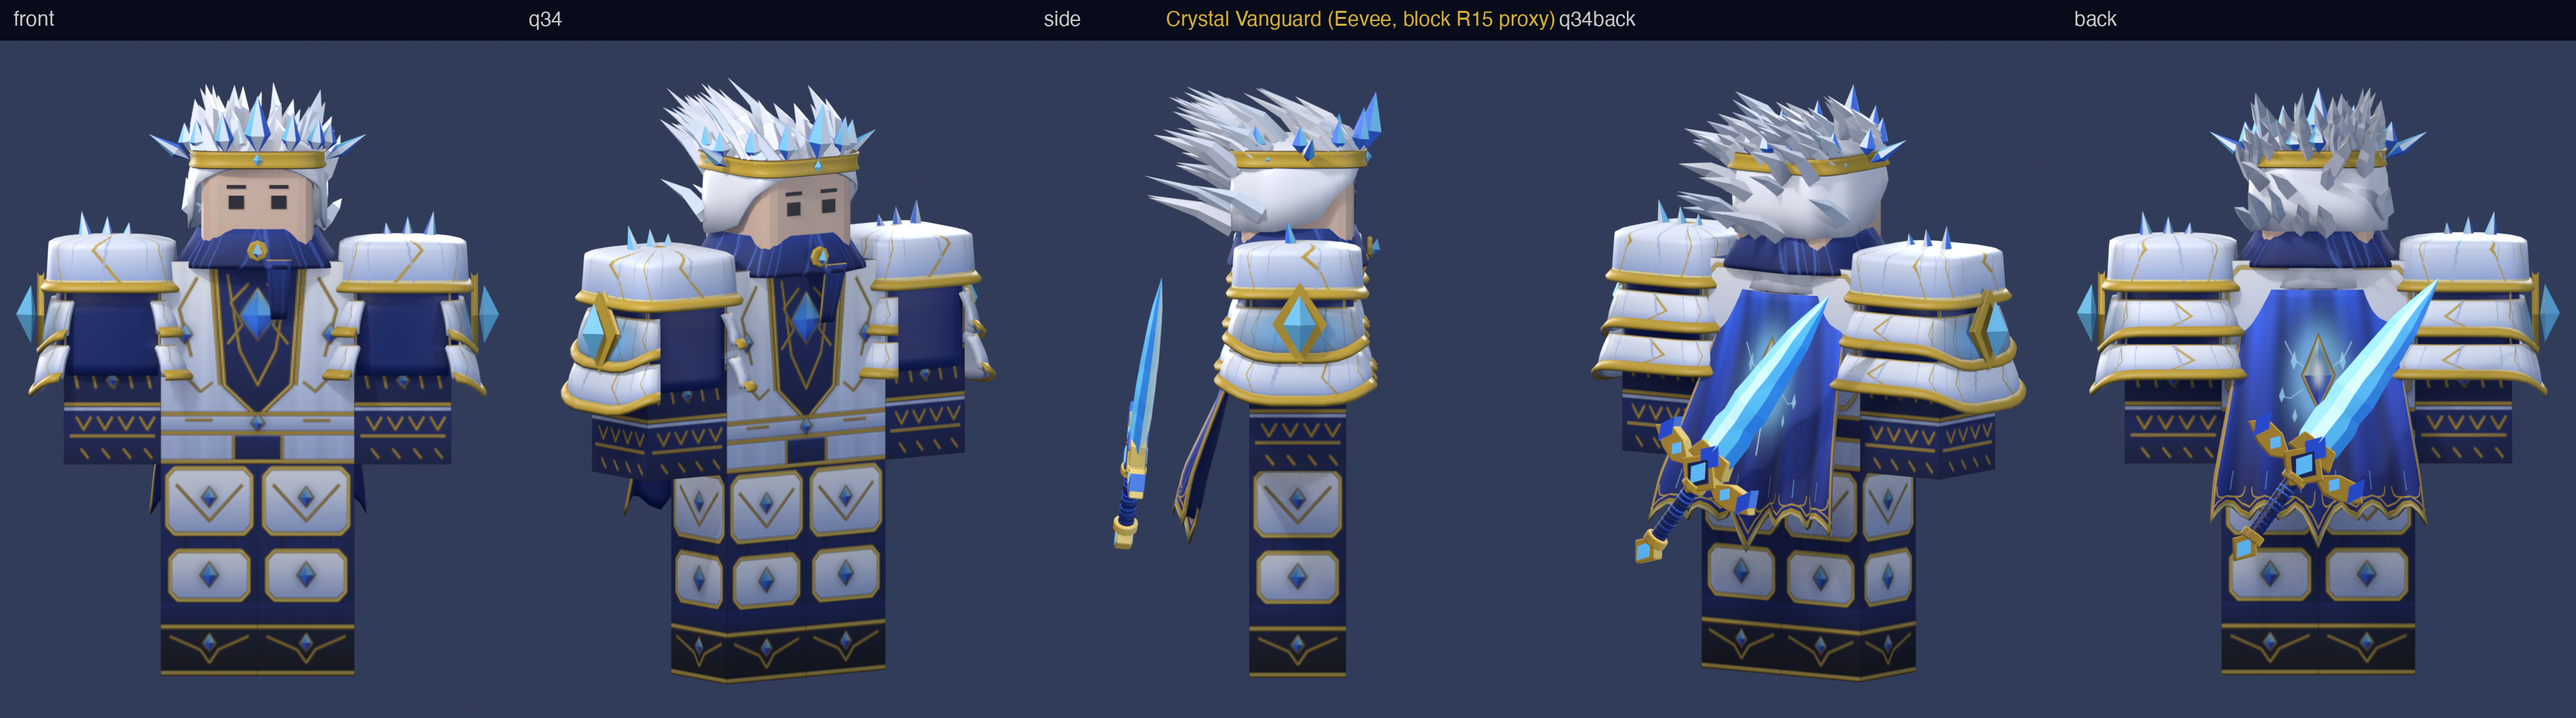
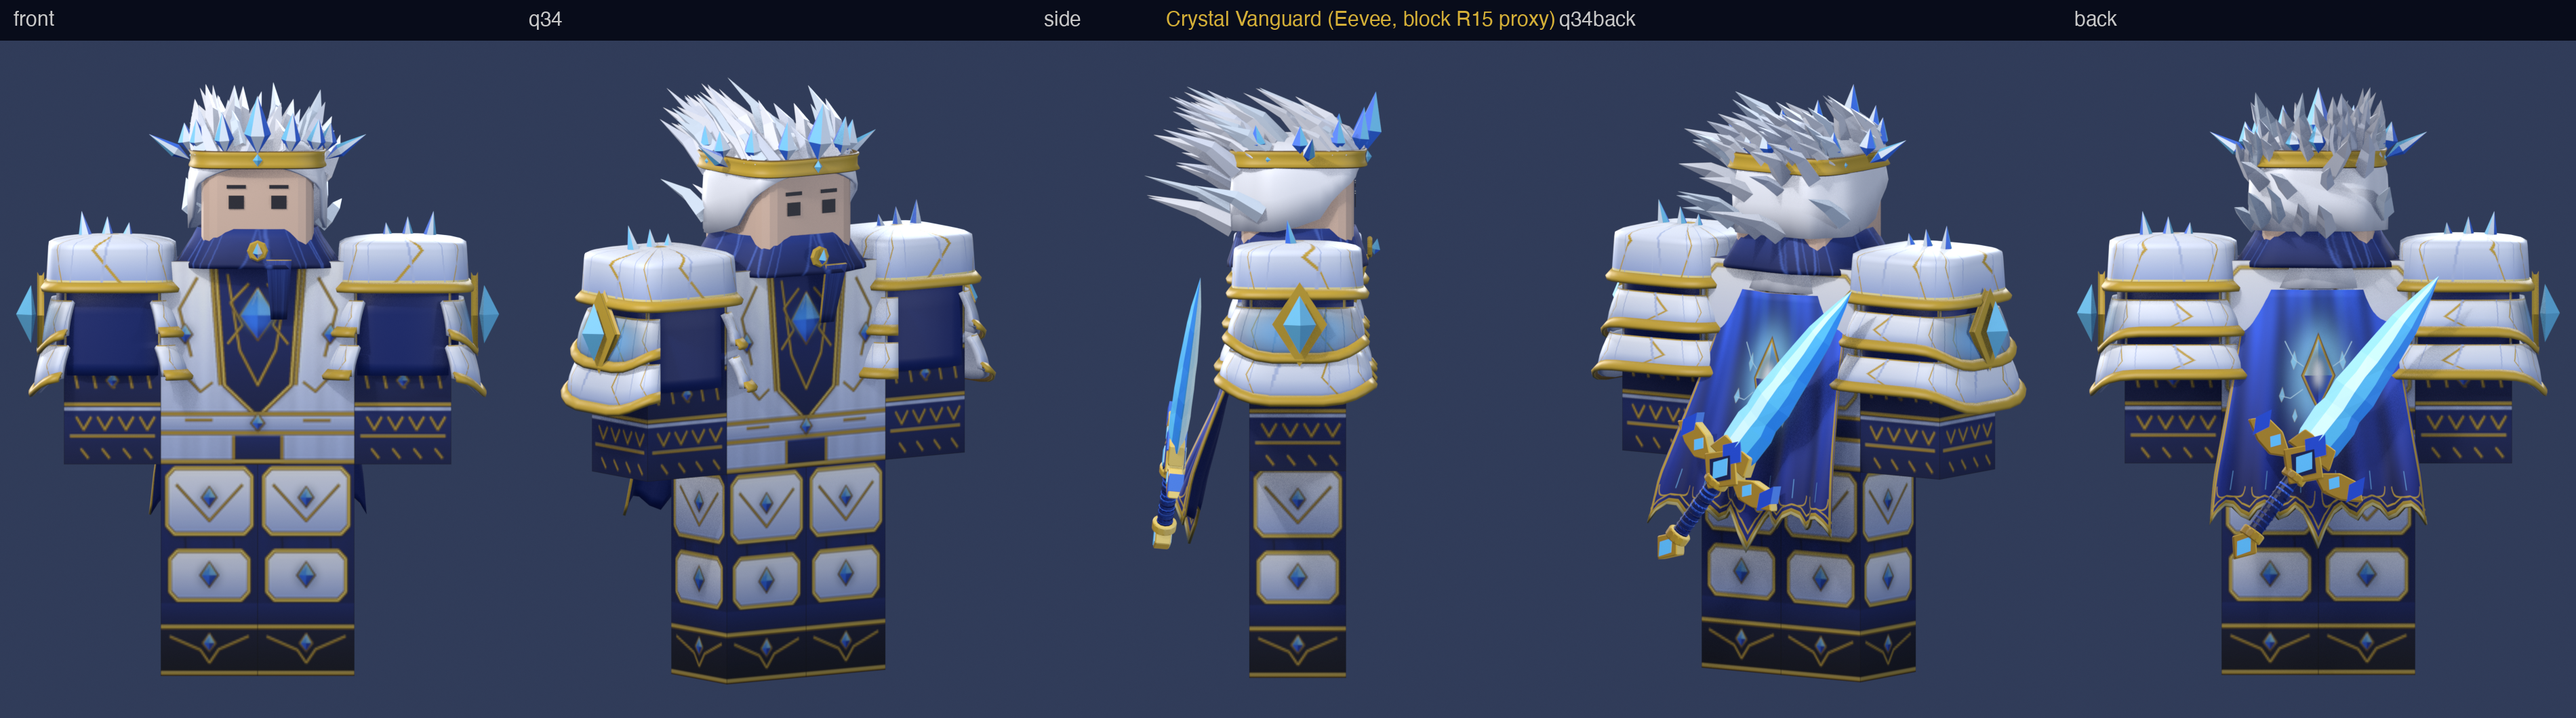
Studio fit test of Crystal Vanguard: sword pose fix, results and screenshots

diff --git a/examples/crystal-vanguard/build_cv.py b/examples/crystal-vanguard/build_cv.py
@@ -307,7 +307,7 @@ def build_sword():
 def place_sword(ob):
     """wearable pose: pommel low on the back (WaistBackAttachment frame is the export origin), blade rising diagonally over the right shoulder"""
     R = Matrix.Rotation(math.radians(-36), 3, "Y") @ Matrix.Rotation(math.radians(6.5), 3, "X"); sc = 0.85
-    P0 = Vector((0.80, 1.80, -2.95))   # r7: y 1.95 -> 1.80 (closer to the smaller cape; 0 BVH overlaps, see clip_check.py)
+    P0 = Vector((0.80, 1.40, -2.95))   # r7: y 1.95 -> 1.80 (closer to the smaller cape; 0 BVH overlaps, see clip_check.py)
     ob.data.transform(Matrix.Translation(P0) @ (R.to_4x4() @ Matrix.Scale(sc, 4)))
 
 

diff --git a/examples/crystal-vanguard/STUDIO_TEST.md b/examples/crystal-vanguard/STUDIO_TEST.md
@@ -29,3 +29,18 @@ Pauldron L has no texture of its own: `paint_cv.py` writes only `tex_cv_pauldron
 - Crown depth 2.45 is close to the 2.5 hat limit.
 - Sword pose offsets were derived from the Tidewatch WaistFront attachment, not measured on WaistBackAttachment.
 - Cape 3.16 tall: back-accessory limits are unchecked.
+
+## Result (2026-11-09, Roblox Studio 0.746, R15 rig, private uploads, run by hand)
+Worn with `docs/studio/wear_crystal_vanguard.lua`: shirt, pants, crown, both pauldrons, cape, scarf, sword. Screenshots in `docs/studio/` (cv_front, cv_back, cv_side_before/after_sword_fix).
+
+| Check | Result |
+|---|---|
+| Textures on all meshes, shirt and pants on the template | OK (first load printed "Asset content representation is being generated": the meshes need a few seconds after upload, re-run if parts are bare) |
+| Front view | Matches the Blender sheet: layered pauldrons with gold rims and gems, navy sleeves with gold lines, white chest armor, crown and hair sit correctly on the head |
+| Back view | Cape with emblem and scalloped hem, sword diagonal over the cape: matches Blender |
+| Side view | **Problem found**: with the r7 pose the sword floated about 1 stud behind the cape (sword centre 1.66 studs behind the UpperTorso centre). Cause: pose offset y=1.80 was too far back. Fixed in `build_cv.py` (P0 y 1.80 -> 1.40, clip_check: 0 overlaps), re-uploaded, sword centre now 1.25 behind the torso centre and touching the cape. |
+| Measured sizes in Studio (x, y, z studs) | cape 2.19 x 3.36 x 1.43; neck/scarf 1.65 x 1.00 x 1.59; sword 2.13 x 2.92 x 0.51; crown 2.17 x 1.53 x 2.37 (Blender 2.24 x 2.45 x 1.56: Studio y/z are swapped vs Blender z/y) |
+
+Sword v2 FBX asset id: 114719164350379 (the earlier 127694122813832 had the floating pose).
+
+Not tested: animations (walk, jump), R6, Rthro, UGC validation tool, in-game camera. The cape is 3.36 studs tall; the marketplace limits for back accessories were not checked, verify before any listing.
